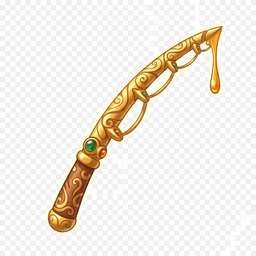
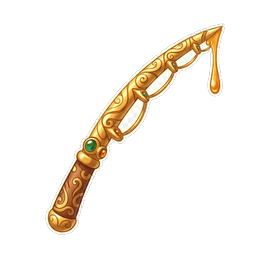
fix(아트): 자동 누끼 — AI 가 투명 대신 체크무늬를 그려서 준다
받은 그림을 재보니 **완전투명 픽셀이 0%**, 모서리 알파가 255 였다.
"transparent background" 를 요구해도 AI 는 투명을 만들지 않고 **회색 체크판을
그림으로 칠해서** 준다. 그대로 넣으면 게임에서 회색 사각형이 그대로 보인다.

배치 스크립트에 누끼를 넣었다:
- **가장자리에서 이어진** 밝은 무채색 영역만 지운다. 전체를 밝기로 자르면
  그물의 크림색 같은 **안쪽 밝은 부분까지 뚫린다** — 바깥에서 연결된 것만
  지워야 안전하다.
- 알파 가장자리를 0.6px 흐려 계단을 없앤다.
- 지운 비율을 출력하고 5% 미만이면 경고한다.
- 이미 진짜 투명한 그림은 건드리지 않는다(`--no-cutout` 로 끌 수도 있다).

채집도구 10장 결과: 68~90% 제거, 모서리 알파 0, 아이템은 온전(불투명 9~31%).
그물의 중앙이 투명한 건 **그물코 사이로 배경이 비치는 게 맞아서**다.

diff --git a/packages/app/tool/place_item_art.py b/packages/app/tool/place_item_art.py
@@ -59,6 +59,8 @@ def main():
     ap.add_argument("--slot", choices=SLOTS, help="이 부위만 배치")
     ap.add_argument("--list", action="store_true", help="필요한 순서만 출력")
     ap.add_argument("--dry", action="store_true", help="옮기지 않고 계획만 출력")
+    ap.add_argument("--no-cutout", action="store_true",
+                    help="누끼(배경 제거)를 건너뛴다 — 이미 투명한 그림일 때")
     a = ap.parse_args()
 
     plan = targets(a.slot)
@@ -109,6 +111,58 @@ def main():
     _place(a, list(zip(files, plan)))
 
 
+def cutout(img):
+    """배경을 지워 진짜 투명으로 만든다(누끼).
+
+    AI 는 "transparent background" 를 요구해도 **투명을 만들지 않고 체크무늬를
+    그려넣는 경우가 많다**(실측: 완전투명 픽셀 0%, 모서리 알파 255). 그대로
+    쓰면 게임에서 회색 체크판 사각형이 그대로 보인다.
+
+    가장자리에서 **연결된 밝은 무채색 영역만** 지운다. 전체를 밝기로 자르면
+    그물의 크림색 같은 **안쪽 밝은 부분까지 뚫린다** — 바깥에서 이어진 것만
+    지워야 안전하다.
+    """
+    from PIL import Image, ImageFilter
+
+    w, h = img.size
+    px = img.convert("RGB").load()
+
+    def is_bg(x, y):
+        r, g, b = px[x, y]
+        # 체크무늬는 밝고 채도가 없다(235~250 회색). 아이템의 밝은 부분은
+        # 대개 색이 살짝 있어(크림·베이지) 채도로 걸러진다.
+        return max(r, g, b) - min(r, g, b) < 24 and min(r, g, b) > 195
+
+    # 테두리에서 시작하는 플러드 필(반복문 — 재귀는 깊이 제한에 걸린다).
+    mask = bytearray(w * h)
+    stack = []
+    for x in range(w):
+        for y in (0, h - 1):
+            if is_bg(x, y):
+                stack.append((x, y))
+    for y in range(h):
+        for x in (0, w - 1):
+            if is_bg(x, y):
+                stack.append((x, y))
+    while stack:
+        x, y = stack.pop()
+        i = y * w + x
+        if mask[i]:
+            continue
+        mask[i] = 1
+        for dx, dy in ((1, 0), (-1, 0), (0, 1), (0, -1)):
+            nx, ny = x + dx, y + dy
+            if 0 <= nx < w and 0 <= ny < h and not mask[ny * w + nx] and is_bg(nx, ny):
+                stack.append((nx, ny))
+
+    alpha = Image.frombytes("L", (w, h), bytes(255 if not m else 0 for m in mask))
+    # 가장자리를 아주 살짝 부드럽게 — 안 하면 계단이 보인다.
+    alpha = alpha.filter(ImageFilter.GaussianBlur(0.6))
+    out = img.copy()
+    out.putalpha(alpha)
+    return out
+
+
 def _place(a, pairs):
     """(원본파일, (대상이름, 설명)) 짝을 실제로 배치한다."""
     from PIL import Image
@@ -116,10 +170,22 @@ def _place(a, pairs):
     os.makedirs(DEST, exist_ok=True)
     for src_name, (name, ko) in pairs:
         dst = os.path.normpath(os.path.join(DEST, f"{name}.webp"))
-        print(f"  {src_name:<24} → {name}.webp   ({ko})")
         if a.dry:
+            print(f"  {src_name:<24} → {name}.webp   ({ko})")
             continue
         img = Image.open(os.path.join(a.src, src_name)).convert("RGBA")
+
+        # 이미 투명한 그림이면 건드리지 않는다. 아니면 누끼를 딴다.
+        before = sum(1 for a2 in img.getchannel("A").getdata() if a2 < 10)
+        if not a.no_cutout and before < img.width * img.height * 0.02:
+            img = cutout(img)
+        after = sum(1 for a2 in img.getchannel("A").getdata() if a2 < 10)
+        pct = after / (img.width * img.height) * 100
+        note = "" if before or a.no_cutout else f"  누끼 {pct:.0f}%"
+        print(f"  {src_name:<24} → {name}.webp   ({ko}){note}")
+        if pct < 5 and not a.no_cutout:
+            print("     ⚠ 배경이 거의 안 지워졌습니다 — 눈으로 확인하세요.")
+
         # 비율을 유지한 채 정사각 캔버스 가운데에 놓는다 — 칸마다 크기가
         # 들쭉날쭉하면 격자로 늘어놨을 때 티가 난다.
         img.thumbnail((SIZE, SIZE), Image.LANCZOS)

diff --git a/docs/art_prompts_equipment.md b/docs/art_prompts_equipment.md
@@ -11,6 +11,17 @@
 | 아이콘 크기 | 256×256 (정사각) |
 | 앵글 | 부위별로 **동일 앵글 · 중앙 정렬 · 동일 여백** |
 
+### ⚠ AI 는 "투명 배경"을 요구해도 체크무늬를 **그려서** 준다
+
+실측: 받은 그림의 **완전투명 픽셀이 0%**, 모서리 알파가 255 였다. 즉 투명이
+아니라 회색 체크판이 **그림으로 칠해져** 있다. 그대로 넣으면 게임에서 회색
+사각형이 그대로 보인다.
+
+배치 스크립트가 **자동으로 누끼를 딴다** — 가장자리에서 이어진 밝은 무채색
+영역만 지우므로, 그물의 크림색 같은 **안쪽 밝은 부분은 안 뚫린다**.
+지운 비율을 출력하고, 5% 미만이면 경고한다.
+이미 진짜 투명인 그림은 건드리지 않는다(`--no-cutout` 로 끌 수도 있다).
+
 ### 파일명을 손으로 바꿀 필요 없다
 
 두 가지 중 편한 쪽을 쓰면 된다.
